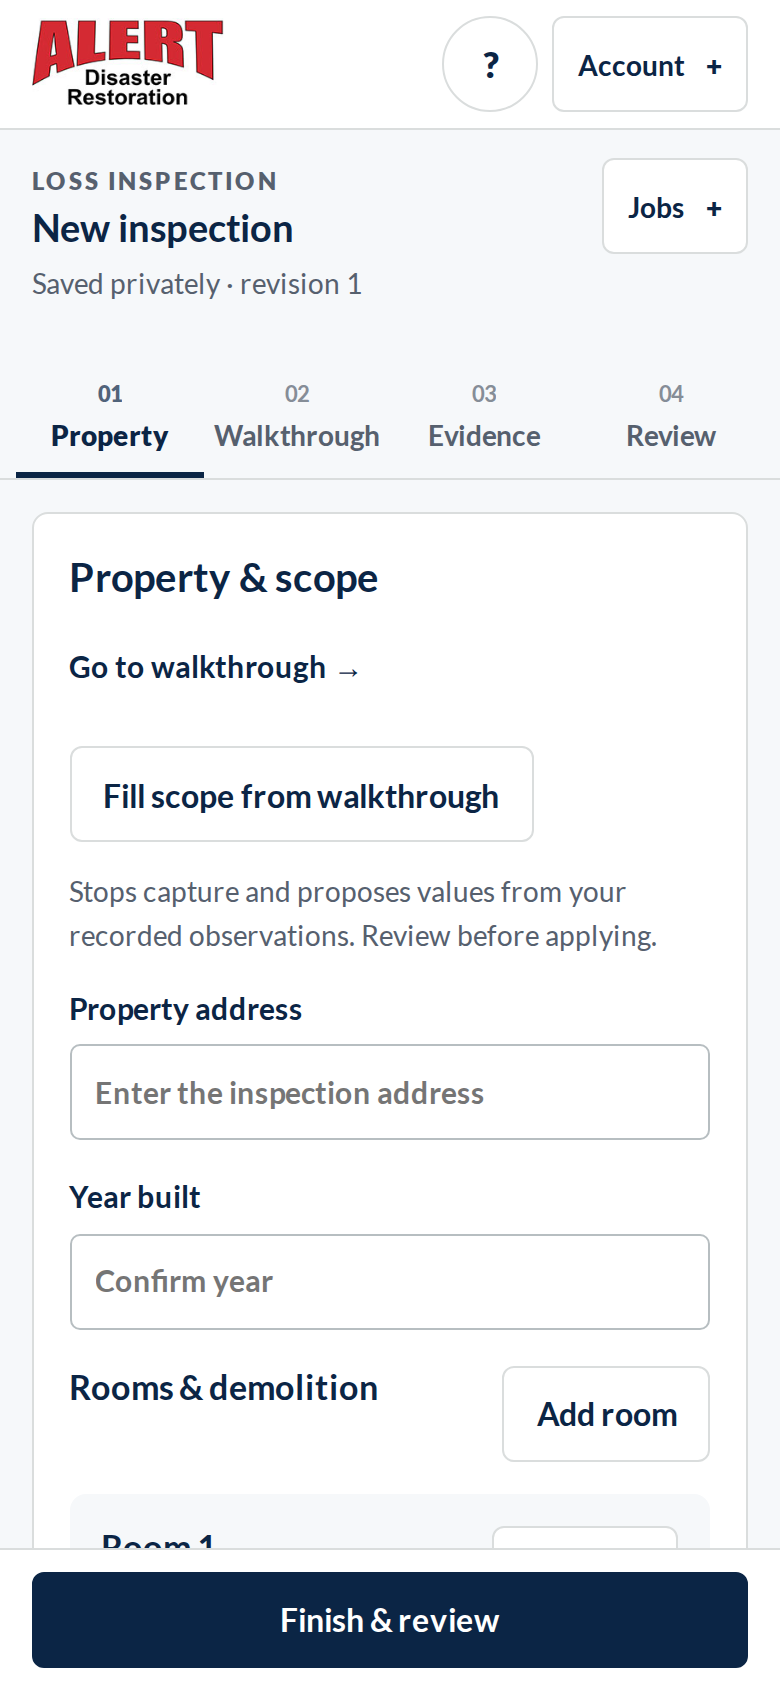
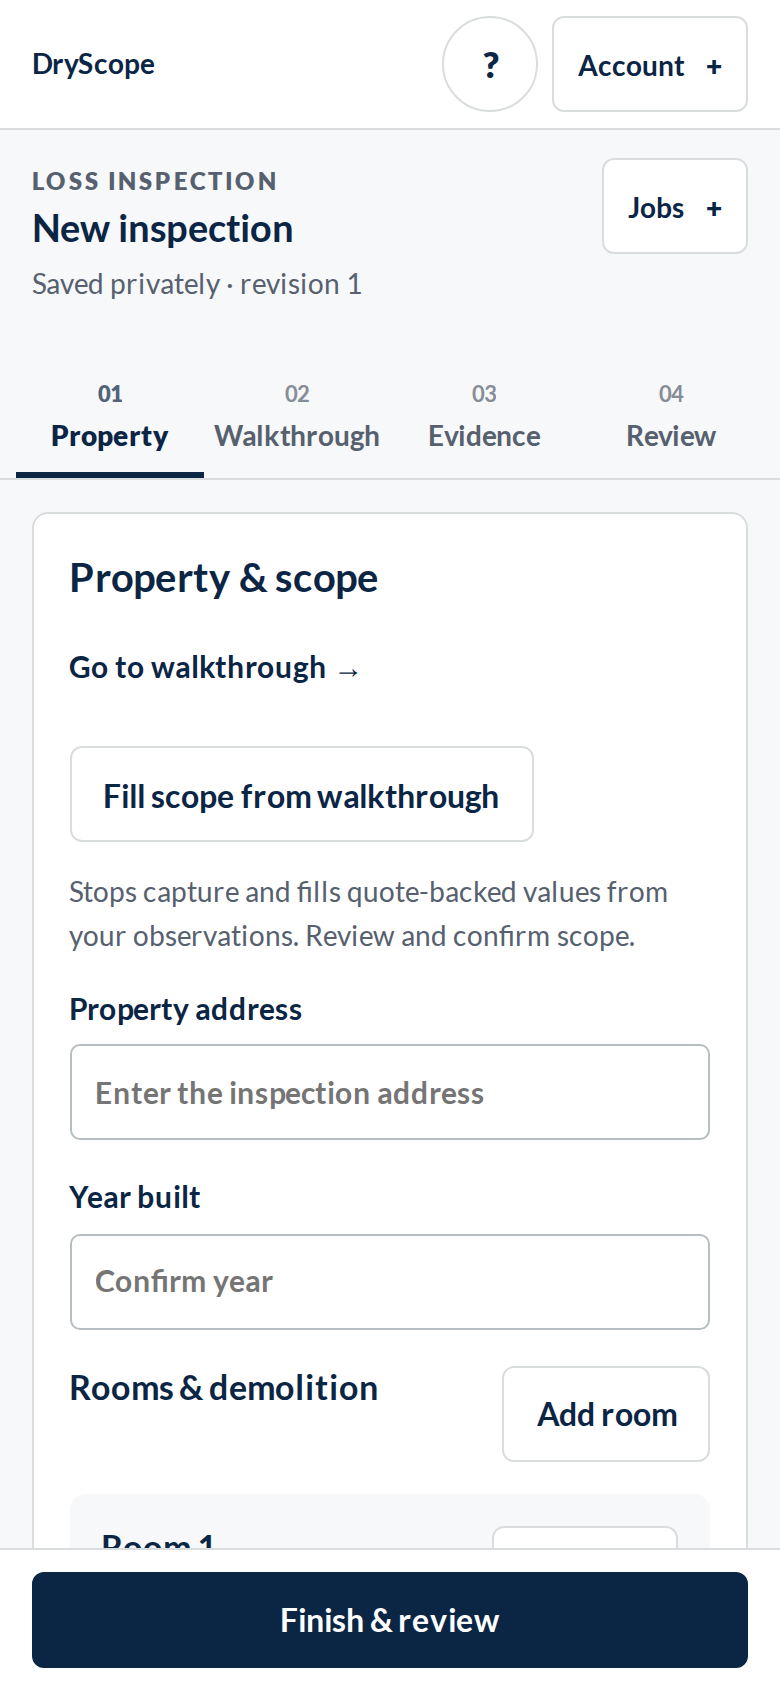
no-mistakes: evidence for fm/adr-brand-pr3-product-identity (run 01M56MZGFDFA0BA7ANQ9HW120S)

Changed region(s): [[0.0923, 0.5237, 0.8615, 0.5853], [0.0308, 0.0, 0.2769, 0.0616]]

diff --git a/.no-mistakes/evidence/fm/adr-brand-pr3-product-identity/live_gate.py b/.no-mistakes/evidence/fm/adr-brand-pr3-product-identity/live_gate.py
@@ -1,0 +1,38 @@
+import asyncio, json, ssl, sys, urllib.request
+import websockets
+BASE = 'localhost:8799'
+ctx = ssl.create_default_context(); ctx.check_hostname = False; ctx.verify_mode = ssl.CERT_NONE
+
+def post(path, body):
+    req = urllib.request.Request('https://' + BASE + path, json.dumps(body).encode(),
+                                 {'Content-Type': 'application/json'})
+    return json.load(urllib.request.urlopen(req, context=ctx))
+
+async def attempt(label, uid, iid, extra):
+    auth = dict(type='authenticate', token=uid, inspection_id=iid, protocol_version=2,
+                capture_id='f' * 32, **extra)
+    async with websockets.connect('wss://' + BASE + '/api/live', ssl=ctx,
+                                  origin='https://' + BASE) as ws:
+        await ws.send(json.dumps(auth))
+        try:
+            reply = json.loads(await asyncio.wait_for(ws.recv(), 10))
+        except websockets.ConnectionClosed as e:
+            reply = {'closed': e.code}
+        print(f'{label}\n  sent: {json.dumps({k: v for k, v in auth.items() if k != "token"})}\n  got:  {json.dumps(reply)}')
+        return reply
+
+async def main():
+    fixture = post('/__test/workspaces', {'enabled': True})
+    iid = fixture['inspection_id']
+    print('Workspaces enabled; ADR estimator test-owner-ws-estimator owns', iid)
+    r = []
+    r.append(await attempt('[1] Old ADR client (no workspace_protocol_version) - previously waived', 'test-owner-ws-estimator', iid, {}))
+    r.append(await attempt('[2] ADR client claiming workspace_protocol_version=0', 'test-owner-ws-estimator', iid, {'workspace_protocol_version': 0}))
+    r.append(await attempt('[3] ADR client sending workspace_protocol_version="1" (string)', 'test-owner-ws-estimator', iid, {'workspace_protocol_version': '1'}))
+    r.append(await attempt('[4] Current ADR client (workspace_protocol_version=1)', 'test-owner-ws-estimator', iid, {'workspace_protocol_version': 1}))
+    post('/__test/workspaces', {'enabled': False})
+    want = {'type': 'error', 'status': 409, 'message': 'Update the app before a company walkthrough.'}
+    ok = r[0] == want and r[1] == want and r[2] == want and r[3] != want and r[3].get('status') != 409
+    print('RESULT:', 'PASS' if ok else 'FAIL')
+    sys.exit(0 if ok else 1)
+asyncio.run(main())

diff --git a/.no-mistakes/evidence/fm/adr-brand-pr3-product-identity/harness.py b/.no-mistakes/evidence/fm/adr-brand-pr3-product-identity/harness.py
@@ -1,0 +1,22 @@
+"""Disposable wrapper: the repo's local synthetic harness, plus a synthetic Live token verifier
+and a Vertex stand-in that only reports the gate was passed. No cloud access."""
+import os, sys, runpy
+ROOT = sys.argv[1]
+sys.path.insert(0, ROOT)
+os.chdir(ROOT)
+import backend.main as bm
+
+async def verify_identity(token, live=False):
+    if not token.startswith('test-owner-'):
+        raise bm.HTTPException(401, 'Sign in to continue.')
+    return dict(uid=token, email=token + '@example.invalid', email_verified=True,
+                firebase={'sign_in_provider': 'google.com'}, exp=9e12)
+bm.verify_identity = verify_identity
+
+class GatePassed(RuntimeError):
+    pass
+def client(**kwargs):
+    raise GatePassed('SYNTHETIC: workspace gate passed; would connect to Vertex now')
+bm.genai.Client = client
+sys.argv = [os.path.join(ROOT, 'tests/browser_server.py')]
+runpy.run_path(sys.argv[0], run_name='__main__')
